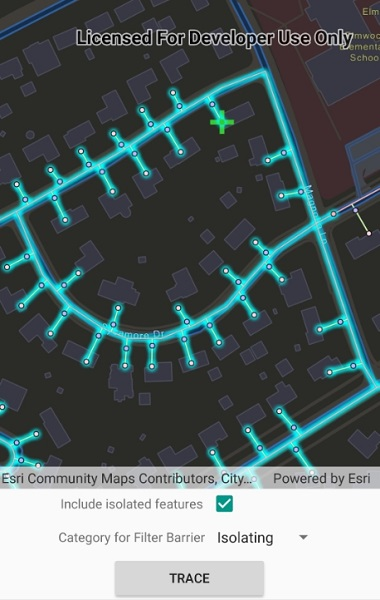
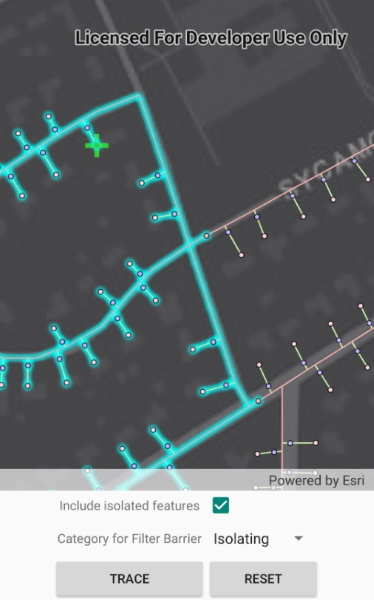
PVIT: Xamarin.Android

diff --git a/src/Android/Xamarin.Android/Samples/Utility network/PerformValveIsolationTrace/PerformValveIsolationTrace.cs b/src/Android/Xamarin.Android/Samples/Utility network/PerformValveIsolationTrace/PerformValveIsolationTrace.cs
@@ -8,12 +8,14 @@
 // language governing permissions and limitations under the License.
 
 using Android.App;
+using Android.Content;
 using Android.OS;
 using Android.Widget;
 using ArcGISRuntime;
 using Esri.ArcGISRuntime.Data;
 using Esri.ArcGISRuntime.Geometry;
 using Esri.ArcGISRuntime.Mapping;
+using Esri.ArcGISRuntime.Security;
 using Esri.ArcGISRuntime.Symbology;
 using Esri.ArcGISRuntime.UI;
 using Esri.ArcGISRuntime.UI.Controls;
@@ -21,6 +23,7 @@ using Esri.ArcGISRuntime.UtilityNetworks;
 using System;
 using System.Collections.Generic;
 using System.Linq;
+using System.Threading.Tasks;
 
 namespace ArcGISRuntimeXamarin.Samples.PerformValveIsolationTrace
 {
@@ -31,18 +34,19 @@ namespace ArcGISRuntimeXamarin.Samples.PerformValveIsolationTrace
         description: "Run a filtered trace to locate operable features that will isolate an area from the flow of network resources.",
         instructions: "Create and set the configuration's filter barriers by selecting a category. Check or uncheck 'Include Isolated Features'. Tap 'Trace' to run a subnetwork-based isolation trace.",
         tags: new[] { "category comparison", "condition barriers", "isolated features", "network analysis", "subnetwork trace", "trace configuration", "trace filter", "utility network" })]
-    [ArcGISRuntime.Samples.Shared.Attributes.AndroidLayout("PerformValveIsolationTrace.axml")]
+    [ArcGISRuntime.Samples.Shared.Attributes.AndroidLayout("PerformValveIsolationTrace.xml")]
     public class PerformValveIsolationTrace : Activity
     {
         // Hold references to the UI controls.
         private MapView _myMapView;
         private Button _traceButton;
+        private Button _resetButton;
         private CheckBox _isolatedCheckBox;
         private Spinner _categorySpinner;
         private ProgressBar _loadingBar;
 
         // Feature service for an electric utility network in Naperville, Illinois.
-        private const string FeatureServiceUrl = "https://sampleserver7.arcgisonline.com/arcgis/rest/services/UtilityNetwork/NapervilleGas/FeatureServer";
+        private const string FeatureServiceUrl = "https://sampleserver7.arcgisonline.com/server/rest/services/UtilityNetwork/NapervilleGas/FeatureServer";
         private const int LineLayerId = 3;
         private const int DeviceLayerId = 0;
         private UtilityNetwork _utilityNetwork;
@@ -50,16 +54,18 @@ namespace ArcGISRuntimeXamarin.Samples.PerformValveIsolationTrace
         // For creating the default trace configuration.
         private const string DomainNetworkName = "Pipeline";
         private const string TierName = "Pipe Distribution System";
-        private UtilityTraceConfiguration _configuration;
 
         // For creating the default starting location.
         private const string NetworkSourceName = "Gas Device";
         private const string AssetGroupName = "Meter";
         private const string AssetTypeName = "Customer";
         private const string GlobalId = "{98A06E95-70BE-43E7-91B7-E34C9D3CB9FF}";
-        private UtilityElement _startingLocation;
 
         private Dictionary<string, UtilityCategory> _categoryDictionary = new Dictionary<string, UtilityCategory>();
+
+        private UtilityTraceParameters _parameters;
+        private TaskCompletionSource<int> _terminalCompletionSource;
+        private SimpleMarkerSymbol _barrierPointSymbol = new SimpleMarkerSymbol(SimpleMarkerSymbolStyle.X, System.Drawing.Color.OrangeRed, 25d);
 
         protected override void OnCreate(Bundle bundle)
         {
@@ -73,6 +79,24 @@ namespace ArcGISRuntimeXamarin.Samples.PerformValveIsolationTrace
 
         private async void Initialize()
         {
+            // As of ArcGIS Enterprise 10.8.1, using utility network functionality requires a licensed user. The following login for the sample server is licensed to perform utility network operations.
+            AuthenticationManager.Current.ChallengeHandler = new ChallengeHandler(async (info) =>
+            {
+                try
+                {
+                    // WARNING: Never hardcode login information in a production application. This is done solely for the sake of the sample.
+                    string sampleServer7User = "viewer01";
+                    string sampleServer7Pass = "I68VGU^nMurF";
+
+                    return await AuthenticationManager.Current.GenerateCredentialAsync(info.ServiceUri, sampleServer7User, sampleServer7Pass);
+                }
+                catch (Exception ex)
+                {
+                    System.Diagnostics.Debug.WriteLine(ex.Message);
+                    return null;
+                }
+            });
+
             try
             {
                 // Disable the UI.
@@ -89,24 +113,29 @@ namespace ArcGISRuntimeXamarin.Samples.PerformValveIsolationTrace
                 // Get a trace configuration from a tier.
                 UtilityDomainNetwork domainNetwork = _utilityNetwork.Definition.GetDomainNetwork(DomainNetworkName) ?? throw new ArgumentException(DomainNetworkName);
                 UtilityTier tier = domainNetwork.GetTier(TierName) ?? throw new ArgumentException(TierName);
-                _configuration = tier.TraceConfiguration;
+                UtilityTraceConfiguration configuration = tier.TraceConfiguration;
 
                 // Create a trace filter.
-                _configuration.Filter = new UtilityTraceFilter();
+                configuration.Filter = new UtilityTraceFilter();
 
                 // Get a default starting location.
                 UtilityNetworkSource networkSource = _utilityNetwork.Definition.GetNetworkSource(NetworkSourceName) ?? throw new ArgumentException(NetworkSourceName);
                 UtilityAssetGroup assetGroup = networkSource.GetAssetGroup(AssetGroupName) ?? throw new ArgumentException(AssetGroupName);
                 UtilityAssetType assetType = assetGroup.GetAssetType(AssetTypeName) ?? throw new ArgumentException(AssetTypeName);
                 Guid globalId = Guid.Parse(GlobalId);
-                _startingLocation = _utilityNetwork.CreateElement(assetType, globalId);
+                UtilityElement startingLocation = _utilityNetwork.CreateElement(assetType, globalId);
+
+                // Build parameters for isolation trace.
+                _parameters = new UtilityTraceParameters(UtilityTraceType.Isolation, new[] { startingLocation });
+                _parameters.TraceConfiguration = tier.TraceConfiguration;
 
                 // Create a graphics overlay.
                 GraphicsOverlay overlay = new GraphicsOverlay();
                 _myMapView.GraphicsOverlays.Add(overlay);
+                _myMapView.GraphicsOverlays.Add(new GraphicsOverlay() { Id = "FilterBarriers" });
 
                 // Display starting location.
-                IEnumerable<ArcGISFeature> elementFeatures = await _utilityNetwork.GetFeaturesForElementsAsync(new List<UtilityElement> { _startingLocation });
+                IEnumerable<ArcGISFeature> elementFeatures = await _utilityNetwork.GetFeaturesForElementsAsync(new List<UtilityElement> { startingLocation });
                 MapPoint startingLocationGeometry = elementFeatures.FirstOrDefault().Geometry as MapPoint;
                 Symbol symbol = new SimpleMarkerSymbol(SimpleMarkerSymbolStyle.Cross, System.Drawing.Color.LimeGreen, 25d);
                 Graphic graphic = new Graphic(startingLocationGeometry, symbol);
@@ -142,25 +171,34 @@ namespace ArcGISRuntimeXamarin.Samples.PerformValveIsolationTrace
                 // Clear previous selection from the layers.
                 _myMapView.Map.OperationalLayers.OfType<FeatureLayer>().ToList().ForEach(layer => layer.ClearSelection());
 
-                if (_categoryDictionary[(string)_categorySpinner.SelectedItem] is UtilityCategory category)
+                // Check if any filter barriers have been placed.
+                if (_parameters.FilterBarriers.Count == 0)
                 {
-                    // NOTE: UtilityNetworkAttributeComparison or UtilityCategoryComparison with Operator.DoesNotExists
-                    // can also be used. These conditions can be joined with either UtilityTraceOrCondition or UtilityTraceAndCondition.
-                    UtilityCategoryComparison categoryComparison = new UtilityCategoryComparison(category, UtilityCategoryComparisonOperator.Exists);
+                    if (_categoryDictionary[(string)_categorySpinner.SelectedItem] is UtilityCategory category)
+                    {
+                        // NOTE: UtilityNetworkAttributeComparison or UtilityCategoryComparison with Operator.DoesNotExists
+                        // can also be used. These conditions can be joined with either UtilityTraceOrCondition or UtilityTraceAndCondition.
+                        UtilityCategoryComparison categoryComparison = new UtilityCategoryComparison(category, UtilityCategoryComparisonOperator.Exists);
 
-                    // Add the filter barrier.
-                    _configuration.Filter.Barriers = categoryComparison;
+                        // Add the filter barrier.
+                        _parameters.TraceConfiguration.Filter = new UtilityTraceFilter()
+                        {
+                            Barriers = categoryComparison
+                        };
+                    }
+
+                    // Set the include isolated features property.
+                    _parameters.TraceConfiguration.IncludeIsolatedFeatures = _isolatedCheckBox.Checked;
+                }
+                else
+                {
+                    // Reset the trace configuration filter.
+                    _parameters.TraceConfiguration.Filter = new UtilityTraceFilter();
+                    _parameters.TraceConfiguration.IncludeIsolatedFeatures = false;
                 }
 
-                // Set the include isolated features property.
-                _configuration.IncludeIsolatedFeatures = _isolatedCheckBox.Checked;
-
-                // Build parameters for isolation trace.
-                UtilityTraceParameters parameters = new UtilityTraceParameters(UtilityTraceType.Isolation, new[] { _startingLocation });
-                parameters.TraceConfiguration = _configuration;
-
                 // Get the trace result from trace.
-                IEnumerable<UtilityTraceResult> traceResult = await _utilityNetwork.TraceAsync(parameters);
+                IEnumerable<UtilityTraceResult> traceResult = await _utilityNetwork.TraceAsync(_parameters);
                 UtilityElementTraceResult elementTraceResult = traceResult?.FirstOrDefault() as UtilityElementTraceResult;
 
                 // Select all the features from the result.
@@ -184,6 +222,92 @@ namespace ArcGISRuntimeXamarin.Samples.PerformValveIsolationTrace
             }
         }
 
+        private async void OnGeoViewTapped(object sender, GeoViewInputEventArgs e)
+        {
+            try
+            {
+                _loadingBar.Visibility = Android.Views.ViewStates.Visible;
+
+                // Identify the feature to be used.
+                IEnumerable<IdentifyLayerResult> identifyResult = await _myMapView.IdentifyLayersAsync(e.Position, 10.0, false);
+                ArcGISFeature feature = identifyResult?.FirstOrDefault()?.GeoElements?.FirstOrDefault() as ArcGISFeature;
+                if (feature == null) { return; }
+
+                // Create element from the identified feature.
+                UtilityElement element = _utilityNetwork.CreateElement(feature);
+
+                if (element.NetworkSource.SourceType == UtilityNetworkSourceType.Junction)
+                {
+                    // Select terminal for junction feature.
+                    IEnumerable<UtilityTerminal> terminals = element.AssetType.TerminalConfiguration?.Terminals;
+                    if (terminals?.Count() > 1)
+                    {
+                        element.Terminal = await WaitForTerminal(terminals);
+                    }
+                }
+                else if (element.NetworkSource.SourceType == UtilityNetworkSourceType.Edge)
+                {
+                    // Compute how far tapped location is along the edge feature.
+                    if (feature.Geometry is Polyline line)
+                    {
+                        line = GeometryEngine.RemoveZ(line) as Polyline;
+                        double fraction = GeometryEngine.FractionAlong(line, e.Location, -1);
+                        if (double.IsNaN(fraction)) { return; }
+                        element.FractionAlongEdge = fraction;
+                    }
+                }
+
+                _parameters.FilterBarriers.Add(element);
+
+                // Add a graphic for the new utility element.
+                Graphic traceLocationGraphic = new Graphic(feature.Geometry as MapPoint ?? e.Location, _barrierPointSymbol);
+                _myMapView.GraphicsOverlays["FilterBarriers"]?.Graphics.Add(traceLocationGraphic);
+
+                // Disable UI not used for filter barriers.
+                _categorySpinner.Enabled = _isolatedCheckBox.Enabled = false;
+            }
+            catch (Exception ex)
+            {
+                new AlertDialog.Builder(this).SetMessage(ex.Message).SetTitle(ex.GetType().Name).Show();
+            }
+            finally
+            {
+                _loadingBar.Visibility = Android.Views.ViewStates.Gone;
+            }
+        }
+
+        private async Task<UtilityTerminal> WaitForTerminal(IEnumerable<UtilityTerminal> terminals)
+        {
+            // Create an array of the terminal names for the UI.
+            string[] terminalNames = terminals.ToList().Select(t => t.Name).ToArray();
+
+            // Create UI for terminal selection.
+            AlertDialog.Builder builder = new AlertDialog.Builder(this);
+            builder.SetTitle("Select terminal for junction");
+            builder.SetItems(terminalNames, Choose_Click);
+            builder.SetCancelable(false);
+            builder.Show();
+
+            // Return the selected terminal.
+            _terminalCompletionSource = new TaskCompletionSource<int>();
+            string selectedName = terminalNames[await _terminalCompletionSource.Task];
+            return terminals.Where(x => x.Name.Equals(selectedName)).FirstOrDefault();
+        }
+
+        private void Choose_Click(object sender, DialogClickEventArgs e)
+        {
+            _terminalCompletionSource.TrySetResult(e.Which);
+        }
+
+        private void OnReset(object sender, EventArgs e)
+        {
+            _parameters.FilterBarriers.Clear();
+            _myMapView.GraphicsOverlays["FilterBarriers"]?.Graphics.Clear();
+
+            // Re-enable the UI.
+            _categorySpinner.Enabled = _isolatedCheckBox.Enabled = true;
+        }
+
         private void CreateLayout()
         {
             // Load the layout from the axml resource.
@@ -191,11 +315,23 @@ namespace ArcGISRuntimeXamarin.Samples.PerformValveIsolationTrace
 
             _myMapView = FindViewById<MapView>(Resource.Id.MapView);
             _traceButton = FindViewById<Button>(Resource.Id.traceButton);
+            _resetButton = FindViewById<Button>(Resource.Id.resetButton);
             _isolatedCheckBox = FindViewById<CheckBox>(Resource.Id.isolatedCheckBox);
             _categorySpinner = FindViewById<Spinner>(Resource.Id.categorySpinner);
             _loadingBar = FindViewById<ProgressBar>(Resource.Id.loadingBar);
 
             _traceButton.Click += OnTrace;
+            _resetButton.Click += OnReset;
+            _myMapView.GeoViewTapped += OnGeoViewTapped;
+        }
+
+        protected override void OnDestroy()
+        {
+            base.OnDestroy();
+
+            _traceButton.Click -= OnTrace;
+            _resetButton.Click -= OnReset;
+            _myMapView.GeoViewTapped -= OnGeoViewTapped;
         }
     }
 }
